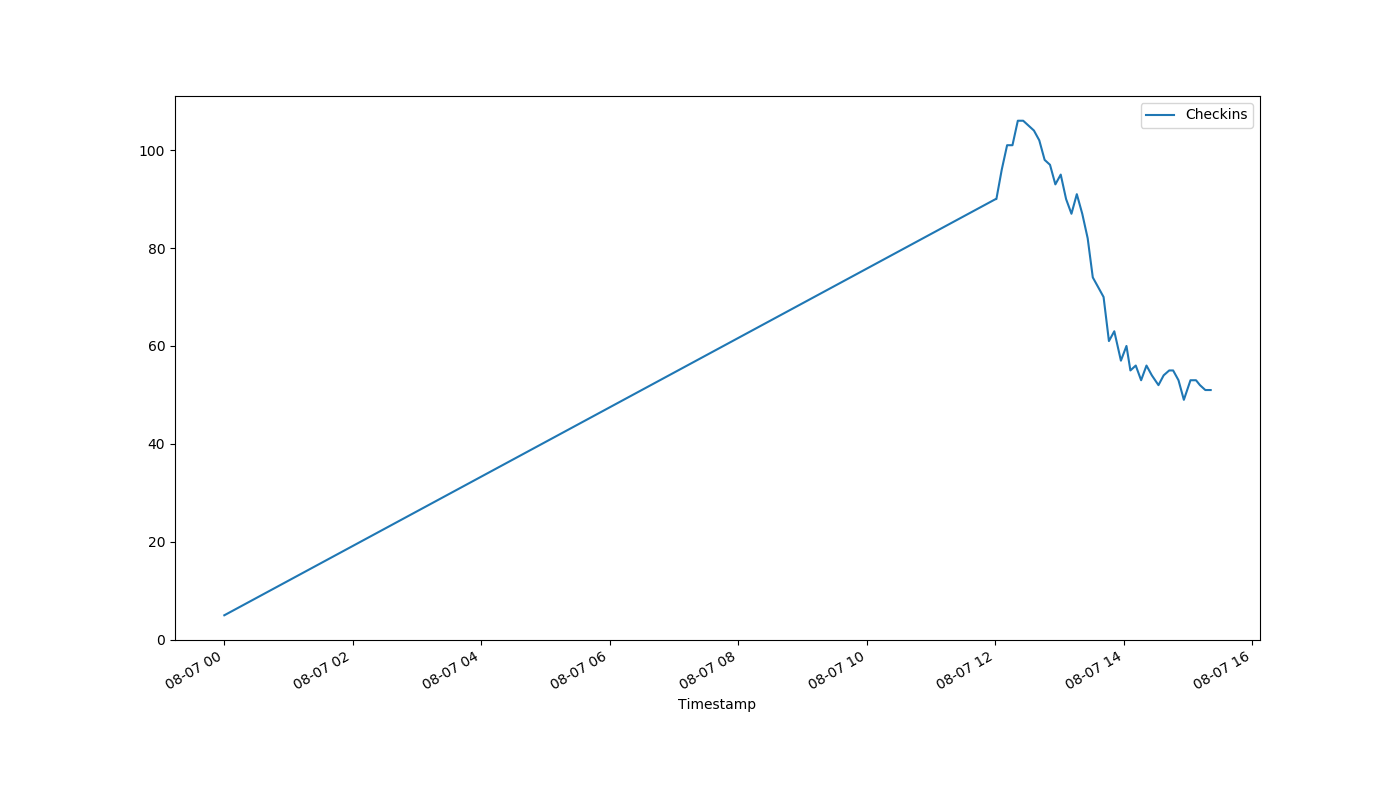
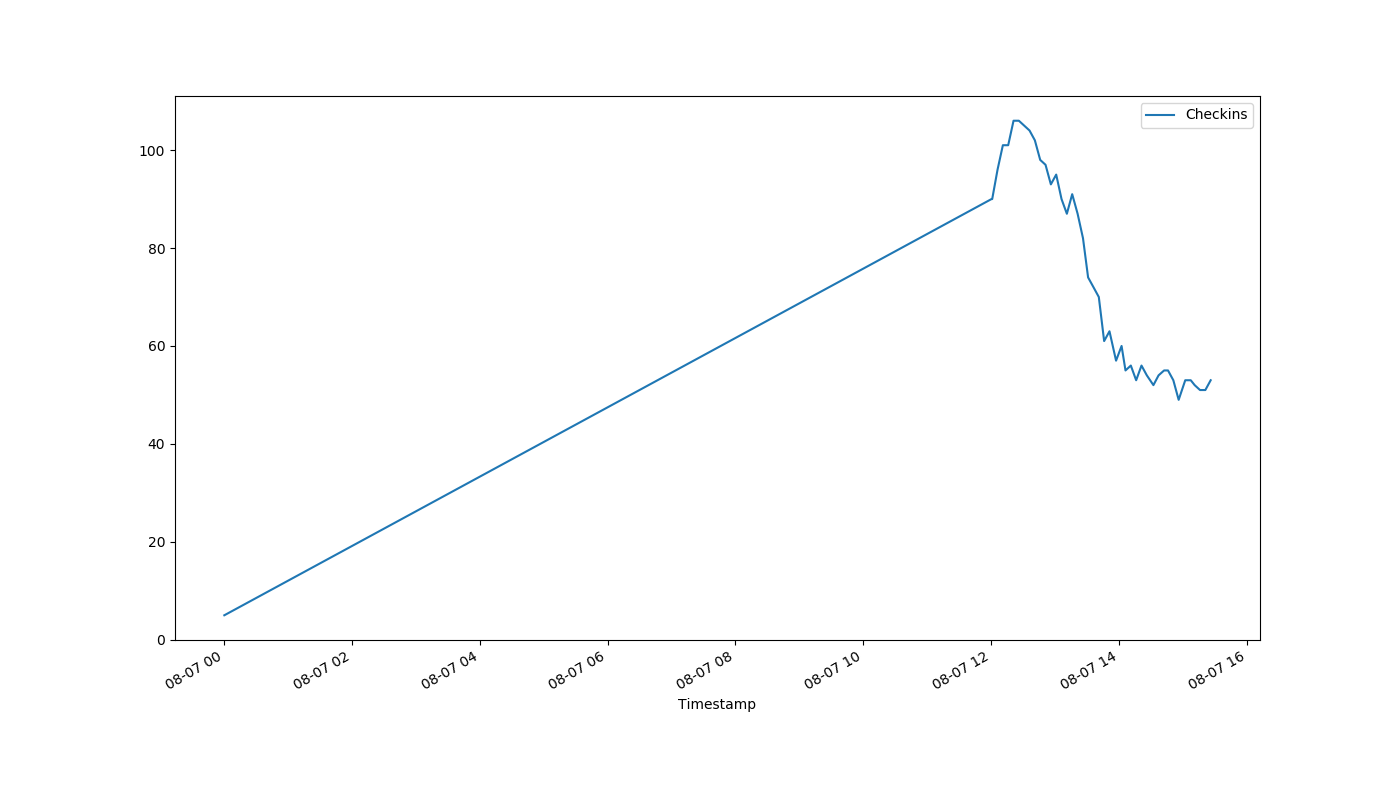
auto-Aug-07-15:27:42

diff --git a/index.html b/index.html
@@ -1,1 +1,1 @@
-<!DOCTYPE html><html><head><meta http-equiv="refresh" content="30"><link rel='stylesheet' href='holmcurrent.css'></head><body><p id='count'>51</p><div id='graph-wrap'><img id='graph' src='holmgraph-Aug-07.png'></div><p id='updated'>Last updated 15:21:17 / 15:21:04</p></body></html>
+<!DOCTYPE html><html><head><meta http-equiv="refresh" content="30"><link rel='stylesheet' href='holmcurrent.css'></head><body><p id='count'>53</p><div id='graph-wrap'><img id='graph' src='holmgraph-Aug-07.png'></div><p id='updated'>Last updated 15:26:17 / 15:26:05</p></body></html>
